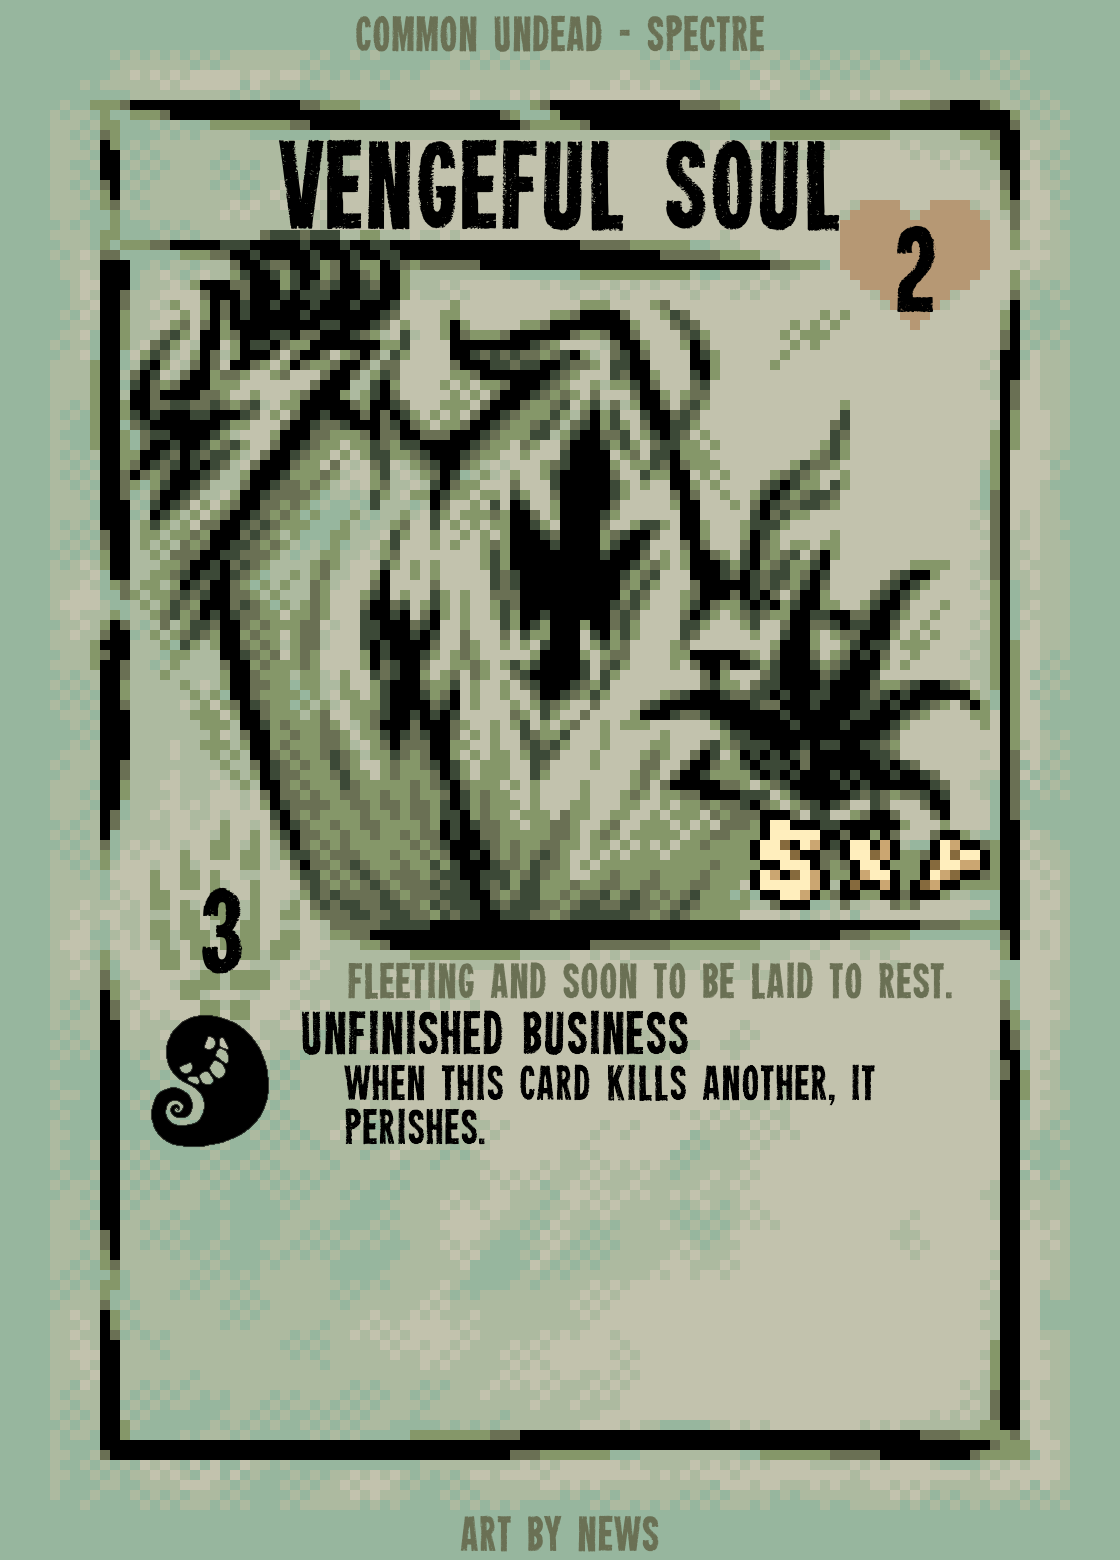
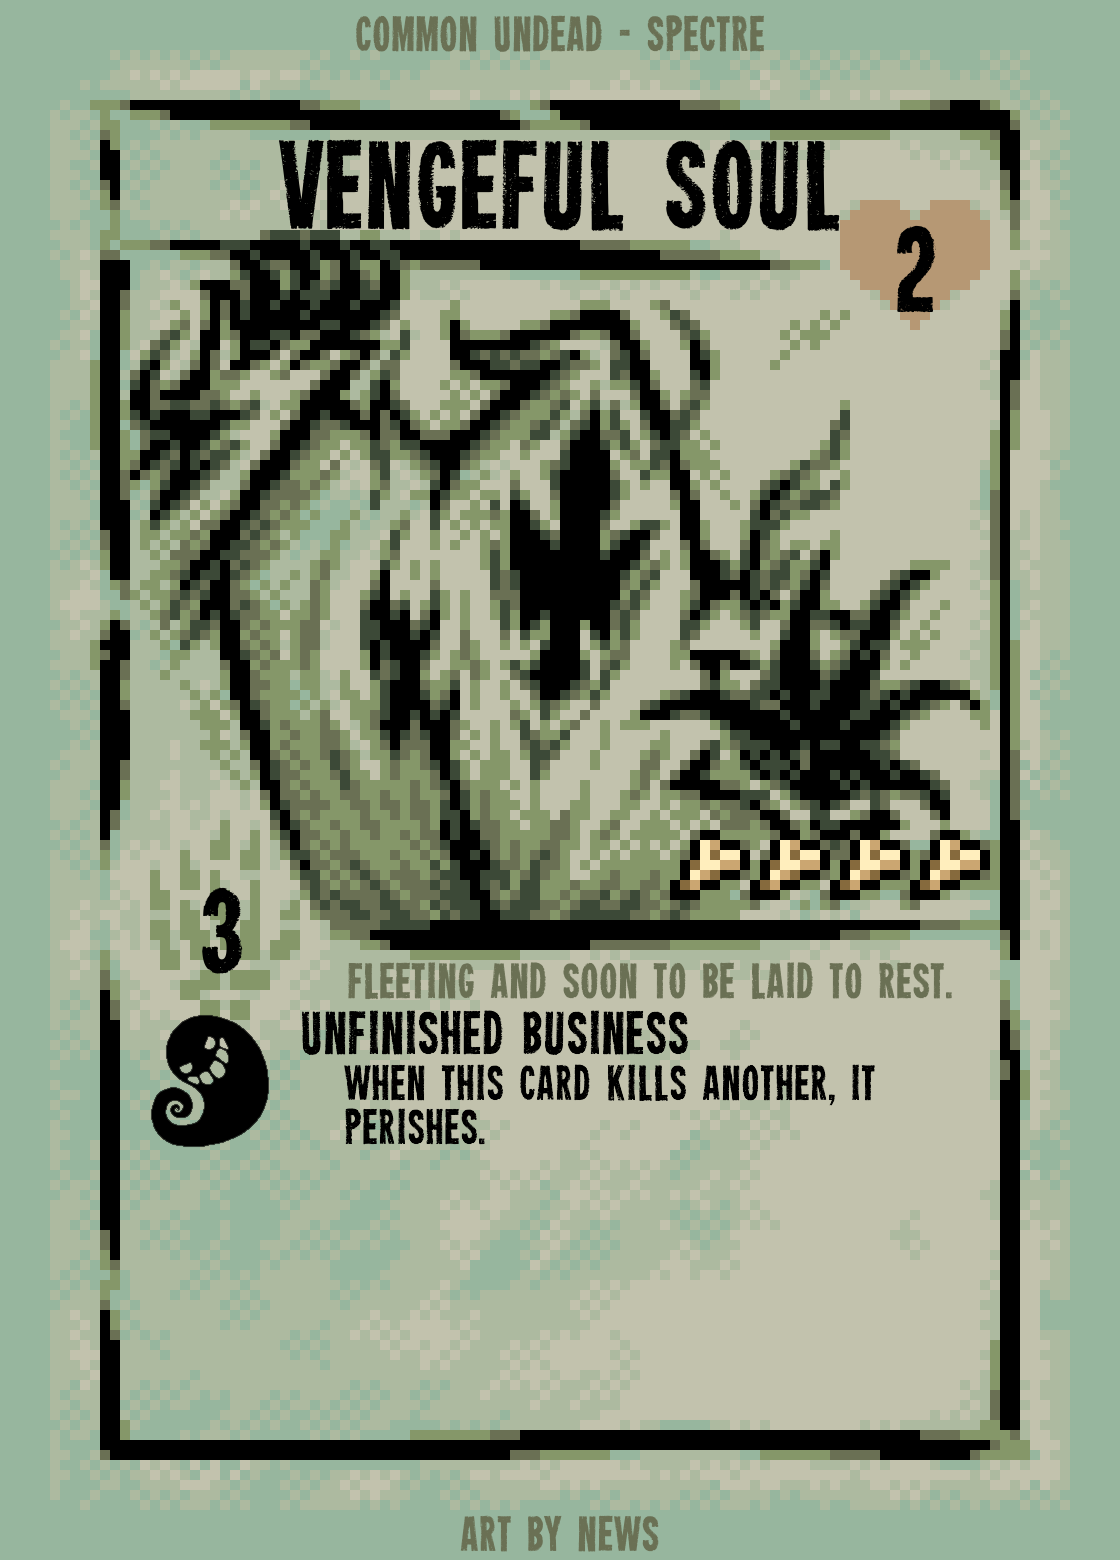
Buffed Vengeful Soul

Changed region(s): [[0.5938, 0.5231, 0.8125, 0.5846]]

diff --git a/experiences/wiki/pages/decks.html b/experiences/wiki/pages/decks.html
@@ -98,10 +98,10 @@
       </tr>
       <tr>
         <td><img style="border-radius: 7px;" height="250px" src="../../cards/Undead/Common/Spook.png"></td>
-        <td><img style="border-radius: 7px;" height="250px" src="../../cards/Undead/Common/Poltergeist.png"></td>
         <td><img style="border-radius: 7px;" height="250px" src="../../cards/Undead/Common/Lost Hewer.png"></td>
+        <td><img style="border-radius: 7px;" height="250px" src="../../cards/Undead/Common/Umbra Avis.png"></td>
         <td><img style="border-radius: 7px;" height="250px" src="../../cards/Undead/Common/Joltergeist.png"></td>
-        <td><img style="border-radius: 7px;" height="250px" src="../../cards/Undead/Common/Allip.png"></td>
+        <td><img style="border-radius: 7px;" height="250px" src="../../cards/Undead/Common/Possessed Armor.png"></td>
       </tr>
       <tr>
         <th colspan="5" style="font-size: 20px; color: white;"><hr>Blood</th>
